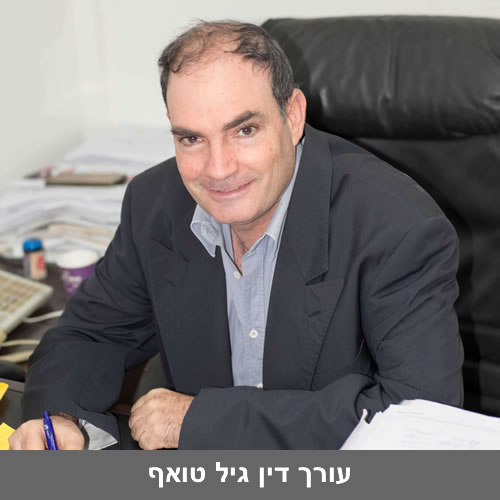
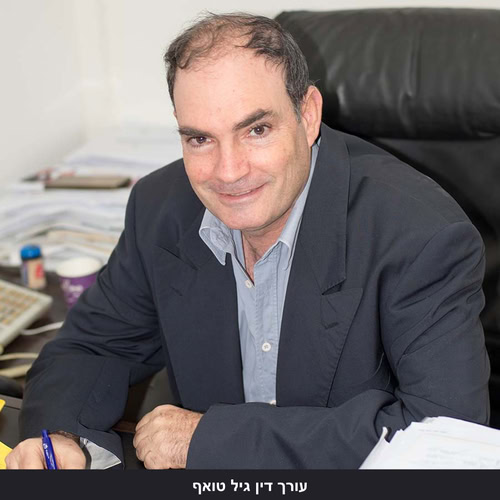
עדכון תמונות עורכי הדין-9-1-26

diff --git a/widget.js b/widget.js
@@ -1203,7 +1203,7 @@ const DEFAULT_WIDGET_CONFIG = {
     borderRadius: '8px',
     fontSize: '16px',
     titleFontSize: '16px',
-    closeButtonSize: '44px'
+    closeButtonSize: '30px'
   },
 
   // Typography
